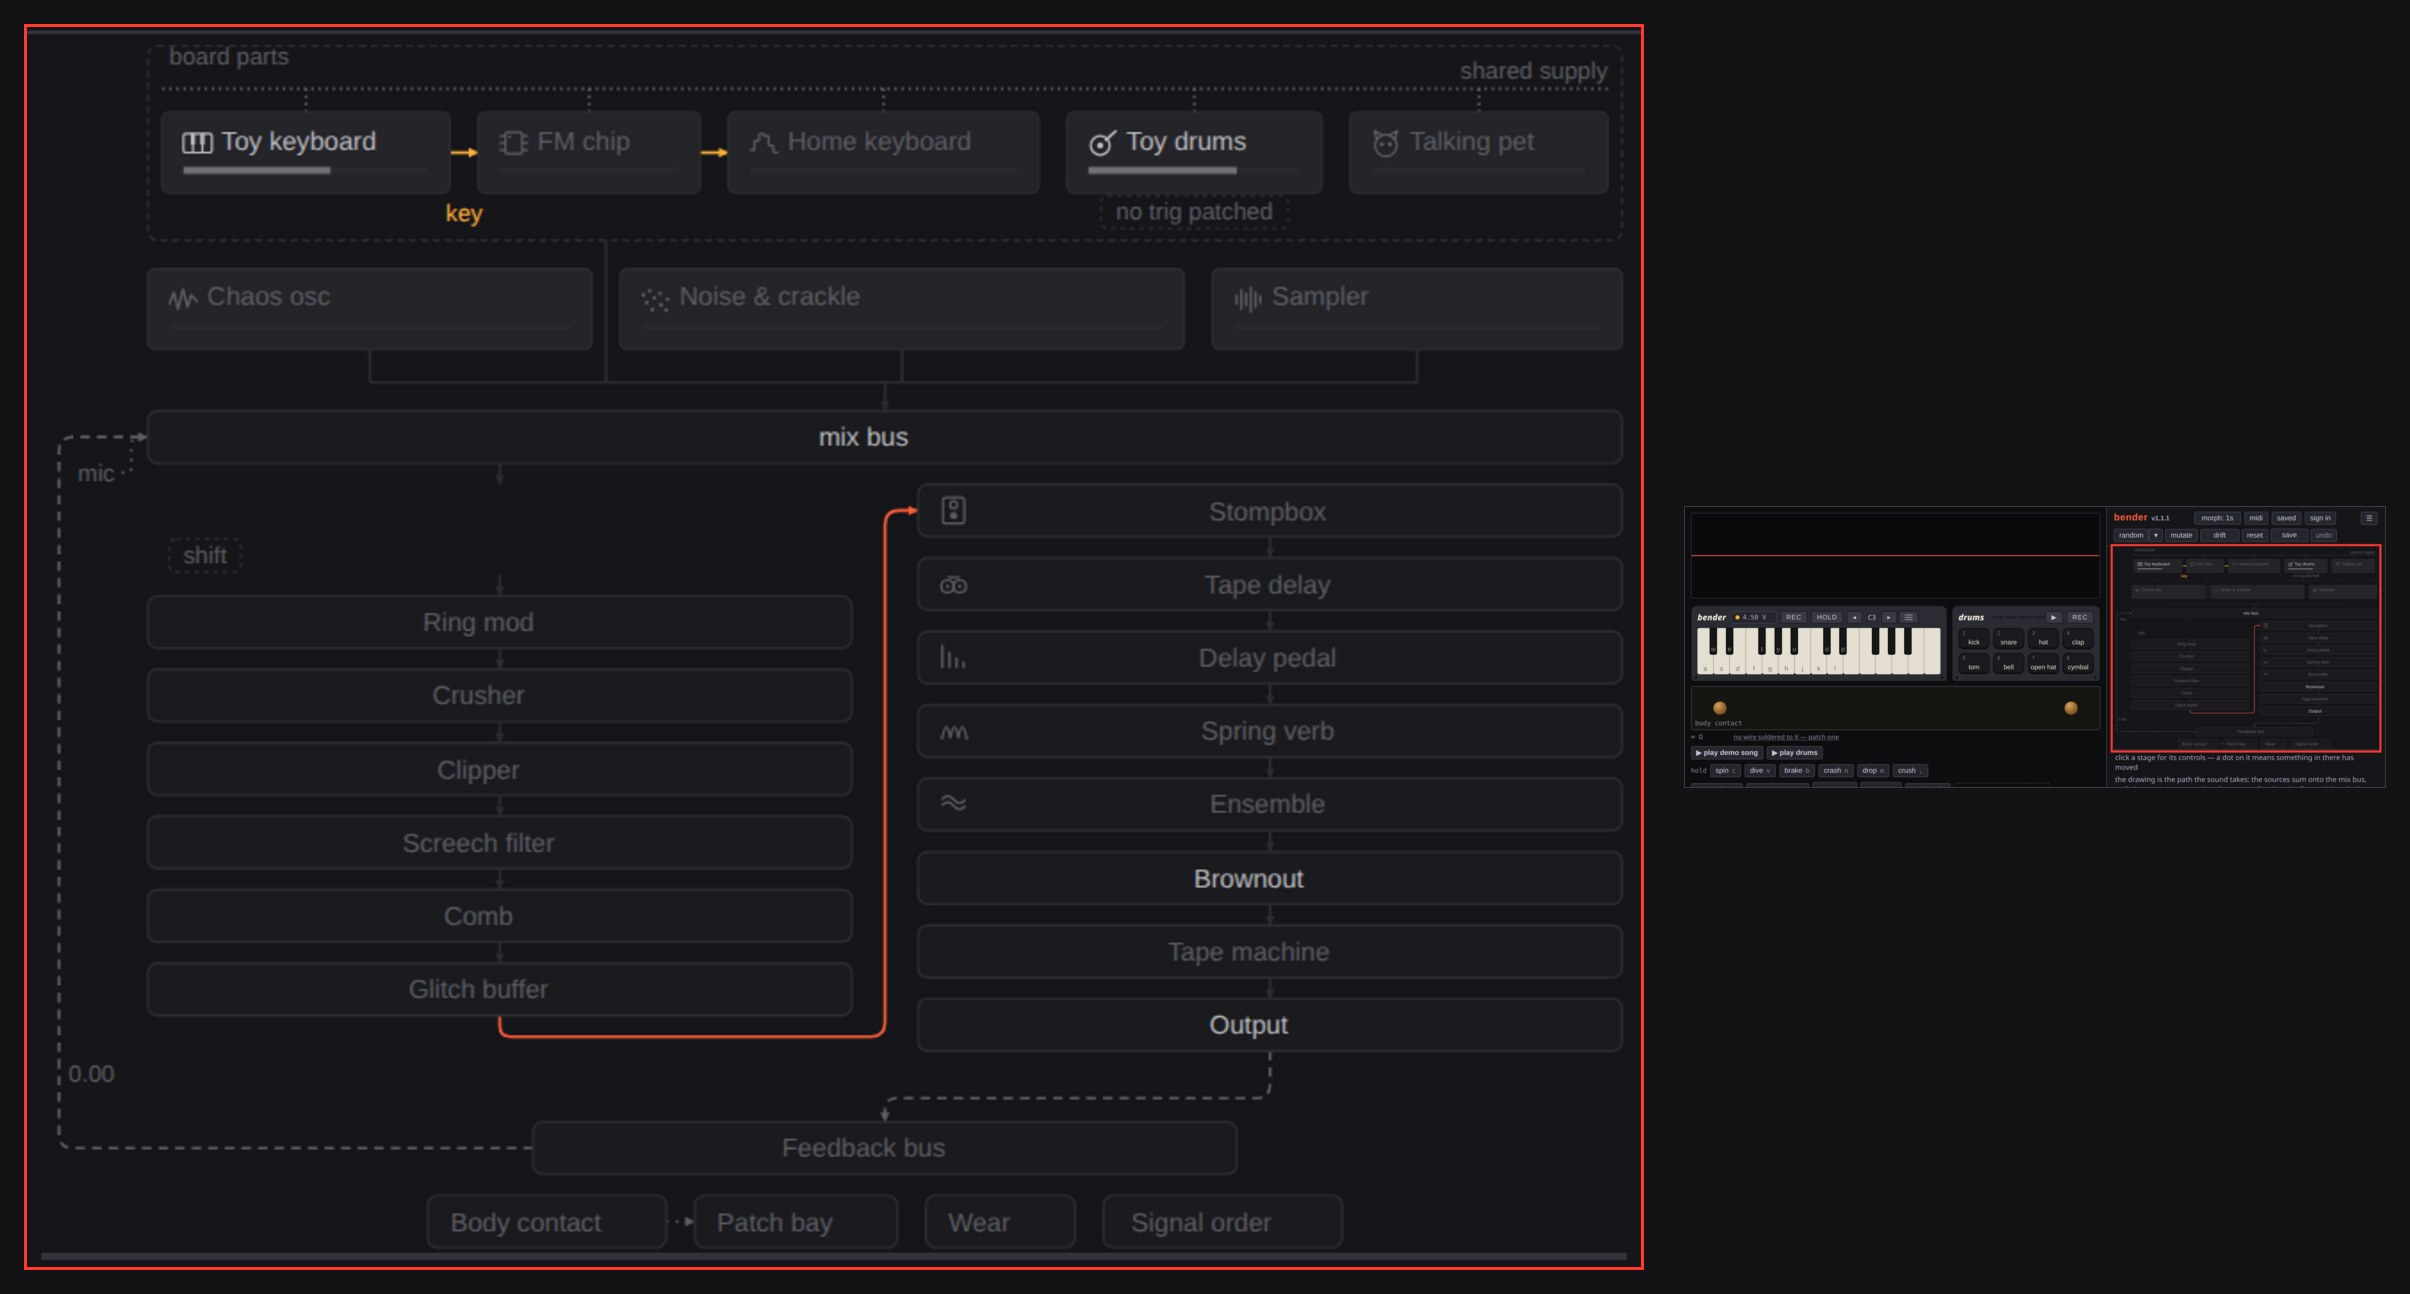
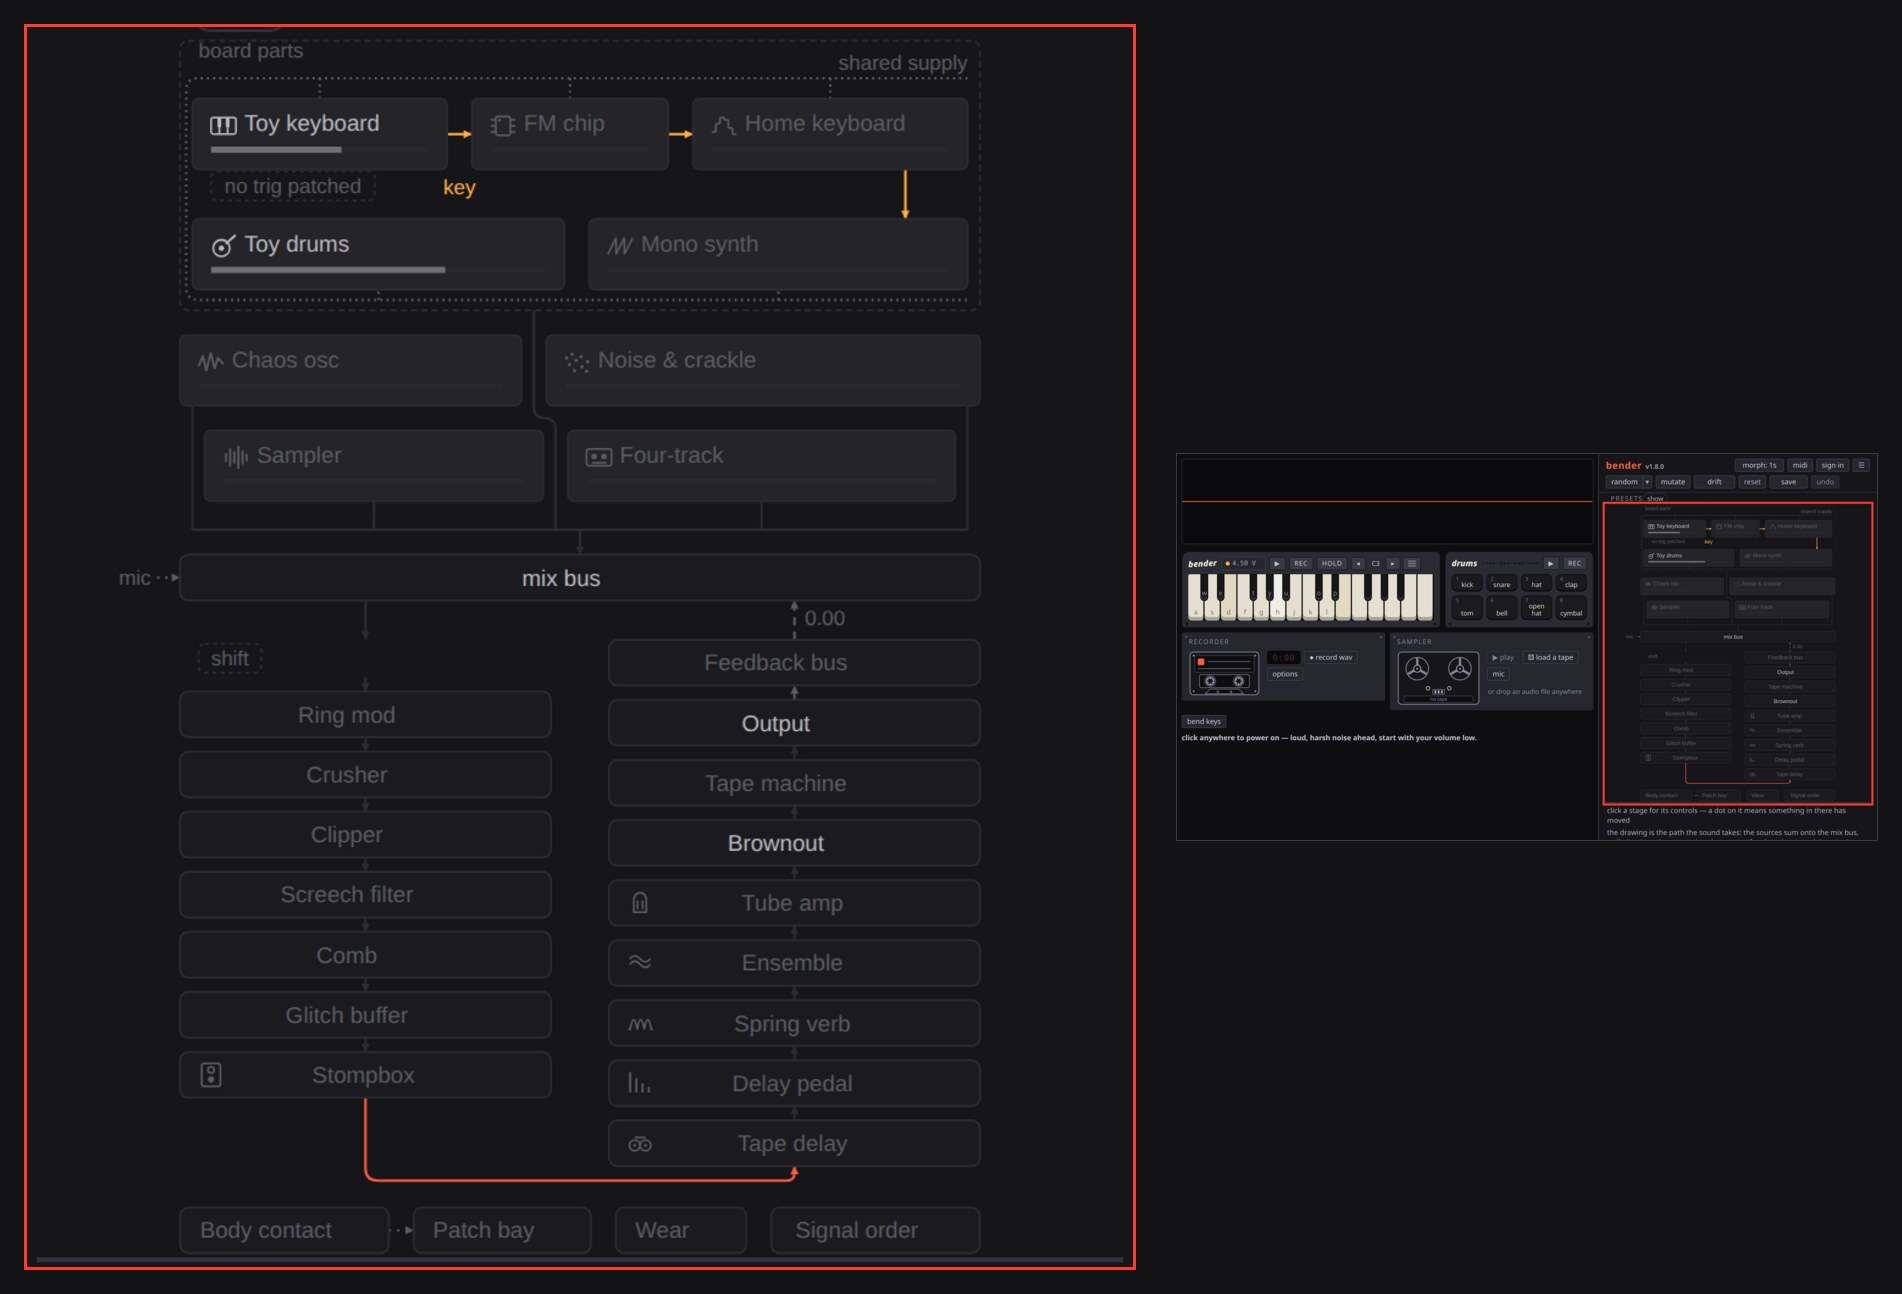
docs: regenerate the panel figure for the loop layout
The figure script waits for the panel to render instead of sleeping three
seconds, which a cold dev server outlasts. The landing page's copy in
public/ was several layouts behind, so it takes the new shot and its size.

diff --git a/scripts/figure.ts b/scripts/figure.ts
@@ -76,7 +76,15 @@ async function shoot(url: string, into: string) {
       deviceScaleFactor: DPR,
       mobile: false,
     })
-    await sleep(3000)
+    for (let i = 0; i < 60; i++) {
+      const { result: found } = await page.send<{ result: { value: boolean } }>(
+        'Runtime.evaluate',
+        { expression: `!!document.querySelector('[class*="graph"]')` },
+      )
+      if (found.value) break
+      await sleep(500)
+    }
+    await sleep(500)
 
     const { result } = await page.send<{ result: { value: string } }>(
       'Runtime.evaluate',

diff --git a/src/site/site.ts b/src/site/site.ts
@@ -19,7 +19,7 @@ export const ORIGIN = `https://cmdcolin.github.io${siteRoot}`
 // landing.test.ts reads the JPEG and checks.
 export const PANEL_SHOT = {
   file: 'panel-callout.jpg',
-  width: 1911,
+  width: 1902,
   height: 1294,
 } as const
 

diff --git a/README.md b/README.md
@@ -16,7 +16,7 @@ always did.
 You interact with the audio using the signal path diagram. Clicking on buttons
 there opens settings panels.
 
-![The panel drawn large on the left and the whole app small beside it, with the panel ringed in red where it sits down the right-hand side of the window: the toy board and its shared supply at the top, the chaos oscillator, noise and sampler feeding the mix bus, the bend slots beside the pedals and the tape machine, and the feedback bus running back under the whole run](docs/img/panel-callout.jpg)
+![The panel drawn large on the left and the whole app small beside it, with the panel ringed in red where it sits down the right-hand side of the window: the toy board and its shared supply at the top, the chaos oscillator, noise, sampler and four-track feeding the mix bus, the bends running down the left, the pedals and the tape machine running back up the right to the output, and the feedback bus above it returning to the mix bus](docs/img/panel-callout.jpg)
 
 Full explanation in [How it works](docs/HOW-IT-WORKS.md).
 
